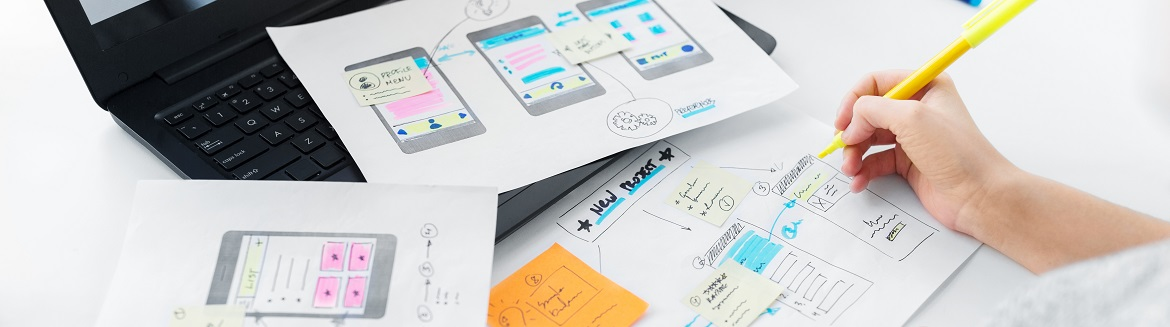
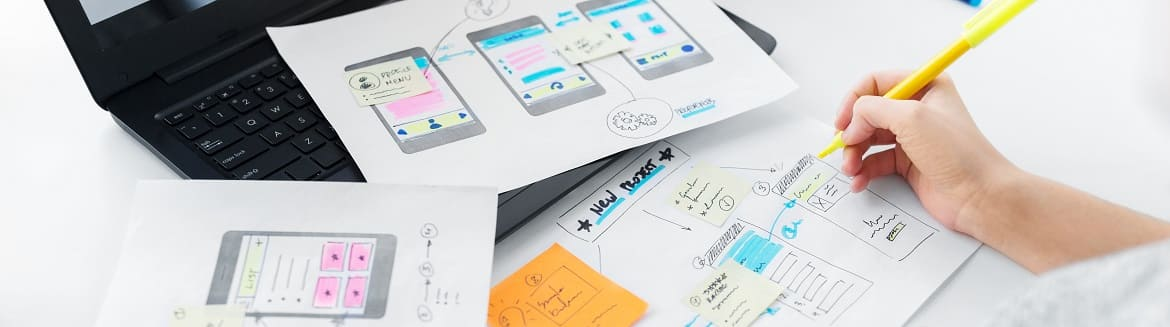
compress img

diff --git a/style.css b/style.css
@@ -717,7 +717,7 @@ h4 {
 }
 .bg-banniere {
     position: relative;
-    height: 65vh;
+    height: 55vh;
     width: 100%;
     display: flex;
     align-items: center;
@@ -741,7 +741,7 @@ h4 {
 
 .bg-presentation {
     position: relative;
-    height: 90vh;
+    height: 72vh;
     width: 100%;
     display: flex;
     align-items: center;
